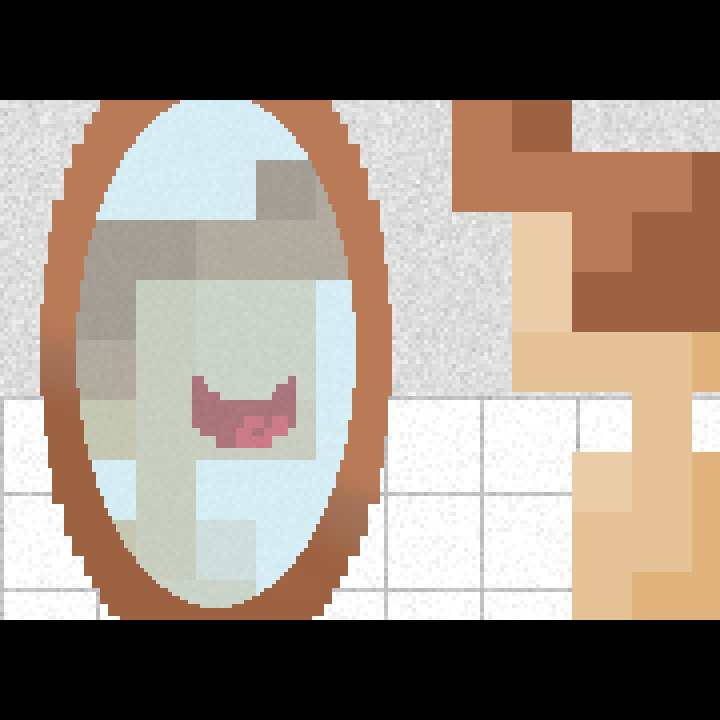
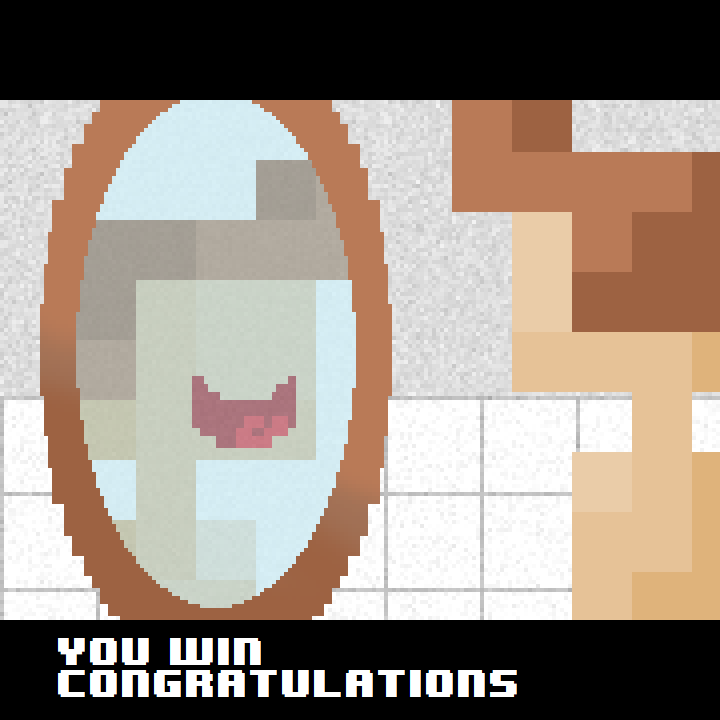
Added win condition

Changed region(s): [[0.0611, 0.8861, 0.7333, 0.9778]]

diff --git a/SDL8_Handout/ModuleWin.cpp b/SDL8_Handout/ModuleWin.cpp
@@ -1,0 +1,62 @@
+#include "Globals.h"
+#include "Application.h"
+#include "ModuleTextures.h"
+#include "ModuleRender.h"
+#include "ModuleSceneBaseballField.h"
+#include "ModuleSceneIntro.h"
+#include "ModulePlayer.h"
+#include "ModuleSceneLevelSelector.h"
+#include "ModuleInput.h"
+#include "ModuleAudio.h"
+#include "SDL/include/SDL.h"
+#include "ModuleFadeToBlack.h"
+#include "ModuleWin.h"
+#include "ModuleCollision.h"
+//#include"ModuleUI.h"
+
+ModuleWin::ModuleWin()
+{
+}
+
+ModuleWin::~ModuleWin()
+{}
+
+// Load assets
+bool ModuleWin::Start()
+{
+	App->player->Disable();
+	App->collision->Disable();
+	LOG("Loading end scene");
+	graphics = App->textures->Load("rtype/win_screen.png");
+	App->render->camera.x = App->render->camera.y = 0;
+	//App->audio->pause_music();
+
+	return true;
+}
+
+// UnLoad assets
+bool ModuleWin::CleanUp()
+{
+	App->textures->Unload(graphics);
+	App->audio->UnloadMusic();
+	LOG("Unloading END scene");
+	return true;
+}
+
+// Update: draw background
+update_status ModuleWin::Update()
+{
+	update_status ret = UPDATE_CONTINUE;
+
+	App->render->Blit(graphics, 0, 0, NULL);
+
+	if (App->input->keyboard[SDL_SCANCODE_C] == KEY_DOWN && App->fade->IsFading() == false || App->input->buttonStart == KEY_DOWN && App->fade->IsFading() == false) {
+		App->fade->FadeToBlack(this, (Module*)App->scene_intro);
+
+		/*if (!App->render->Blit(graphics, 0, SCREEN_HEIGHT - 224, &background, 0.75f))
+		ret = UPDATE_ERROR;*/
+
+	}
+
+	return ret;
+}

diff --git a/SDL8_Handout/Application.cpp b/SDL8_Handout/Application.cpp
@@ -14,6 +14,7 @@
 #include "ModuleFadeToBlack.h"
 #include "ModuleParticles.h"
 #include "ModuleEnemies.h"
+#include "ModuleWin.h"
 #include "ModuleEnd.h"
 
 Application::Application()
@@ -29,6 +30,7 @@ Application::Application()
 	modules[i++] = baseball_field = new ModuleSceneBaseballField();
 	modules[i++] = girl = new ModuleSceneGirl();
 	modules[i++] = gameover = new ModuleEnd();
+	modules[i++] = win = new ModuleWin();
 	modules[i++] = enemies = new ModuleEnemies();
 	modules[i++] = player = new ModulePlayer();
 	modules[i++] = particles = new ModuleParticles();
@@ -57,6 +59,8 @@ bool Application::Init()
 	enemies->Disable();
 	gameover->Disable();
 	girl->Disable();
+	win->Disable();
+
 	// ----------------------------
 
 	for(int i = 0; i < NUM_MODULES && ret == true; ++i)

diff --git a/SDL8_Handout/ModuleSceneGirl.cpp b/SDL8_Handout/ModuleSceneGirl.cpp
@@ -144,6 +144,12 @@ update_status ModuleSceneGirl::Update()
 	
 	if (App->baseball_field->death >= 4 || App->input->keyboard[SDL_SCANCODE_E] == KEY_STATE::KEY_DOWN)
 	{
+		App->baseball_field->win++;
+		if (App->baseball_field->win == 4) {
+			App->fade->FadeToBlack(this, (Module*)App->win);
+			App->baseball_field->win = 0;
+		}
+
 		App->audio->LoadFX("Audios/sound_effects/Sonrisa/FantasmasRespawn.wav");
 		App->baseball_field->death = 0;
 		for (int i = 0; i < 4; i++)

diff --git a/SDL8_Handout/ModuleWin.h b/SDL8_Handout/ModuleWin.h
@@ -1,0 +1,29 @@
+#ifndef __MODULEWIN_H__
+#define __MODULEWIN_H__
+
+#include "Module.h"
+#include "Animation.h"
+#include "Globals.h"
+
+struct SDL_Texture;
+
+class ModuleWin : public Module
+{
+public:
+	ModuleWin();
+	~ModuleWin();
+
+	bool Start();
+	update_status Update();
+	bool CleanUp();
+
+public:
+
+	SDL_Texture* graphics = nullptr;
+	SDL_Rect background;
+	bool check = true;
+
+
+};
+#endif
+

diff --git a/SDL8_Handout/Application.h b/SDL8_Handout/Application.h
@@ -3,7 +3,7 @@
 
 #include "Globals.h"
 
-#define NUM_MODULES 15
+#define NUM_MODULES 16
 
 
 
@@ -22,6 +22,7 @@ class ModuleFadeToBlack;
 class ModuleCollision;
 class ModuleEnemies;
 class ModuleEnd;
+class ModuleWin;
 class Module;
 
 
@@ -44,6 +45,7 @@ public:
 	ModuleFadeToBlack* fade;
 	ModuleParticles* particles;
 	ModuleEnemies* enemies;
+	ModuleWin* win;
 	ModuleEnd* gameover;
 
 public:
